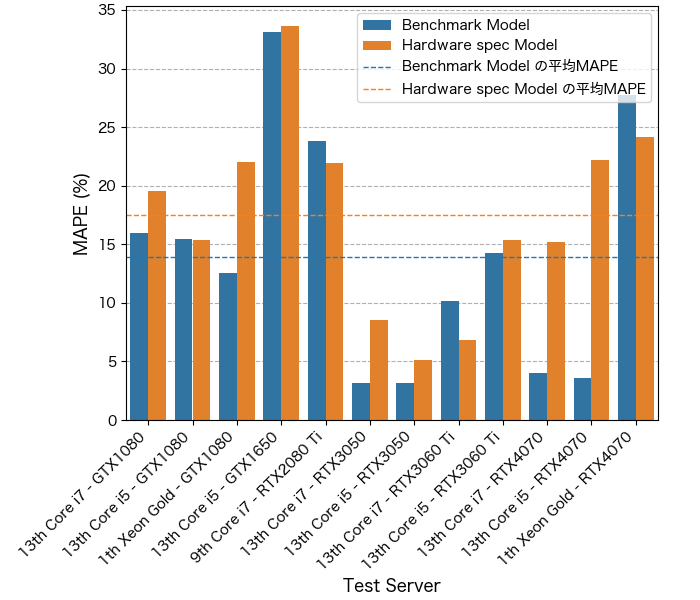
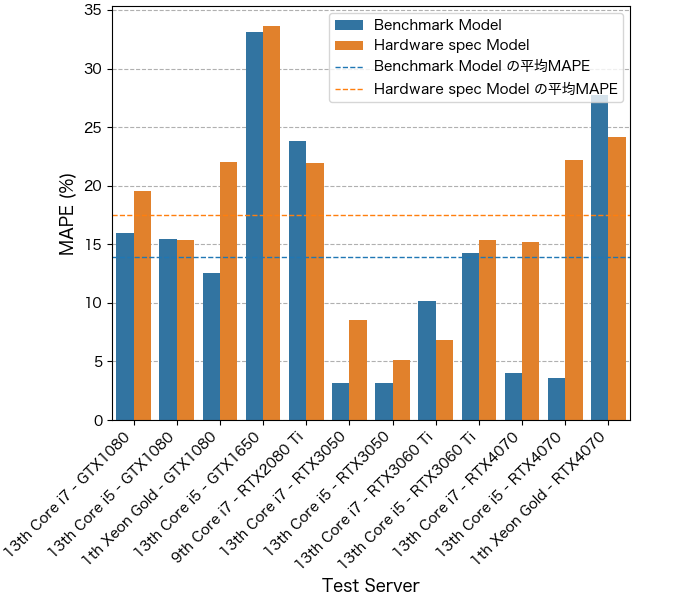
IN研究会　グラフ　修正

diff --git a/IN_visualize_source/plot_high_precision_models copy.py b/IN_visualize_source/plot_high_precision_models copy.py
@@ -1,0 +1,127 @@
+import os
+import sys
+
+import matplotlib.pyplot as plt
+import pandas as pd
+from config import PLT_FONT, SERVER_ORDER
+
+plt.rcParams['font.family'] = PLT_FONT
+
+
+def main():
+    data_dir = '../mlresults_analyze'
+    output_dir = '../IN_graph'  # 保存先のディレクトリ
+    os.makedirs(output_dir, exist_ok=True)  # 保存先フォルダを作成
+
+    data_file = 'benchmark_parameter_stats_results_with_metadata.csv'
+
+    # データの読み込み
+    df = load_data(data_dir, data_file)
+
+    # Variable Parameter をリスト形式に変換し、LaTeX スタイルにフォーマット
+    df['Variable Parameter'] = df['Variable Parameter'].apply(eval)
+    df['Variable Parameter'] = df['Variable Parameter'].apply(
+        lambda params: [to_latex_subscript(param) for param in params])
+
+    # 高精度モデルの条件（例: MAPE < 15%）
+    high_precision_models = df[df['average MAPE test (%)'] < 15]
+
+    # 特徴量の出現頻度をプロット
+    plot_feature_importance(high_precision_models, output_dir)
+
+    # MAPE vs Time Cost の散布図をプロット
+    # plot_mape_vs_time_cost(df, high_precision_models, output_dir)
+
+
+def to_latex_subscript(parameter):
+    """
+    LaTeX形式で変数を下付き文字として変換する
+    """
+    return f"T$_{{\\text{{{parameter[2:]}}}}}$"  # 'T_'の後ろを下付き文字として変換
+
+
+def load_data(data_dir, data_file):
+    """
+    データを読み込み、欠損値をチェックする関数。
+
+    Args:
+        data_dir (str): データディレクトリのパス
+        data_file (str): データファイル名
+
+    Returns:
+        pd.DataFrame: 読み込んだデータフレーム
+    """
+    try:
+        data_path = os.path.join(data_dir, data_file)
+        df = pd.read_csv(data_path)
+        if df.isna().any().any():
+            raise ValueError("データに欠損値（NaN）が含まれています。")
+        return df
+    except FileNotFoundError:
+        print(f"ファイル {data_file} が見つかりませんでした。")
+        sys.exit(1)
+    except ValueError as e:
+        print(e)
+        sys.exit(1)
+
+
+def plot_feature_importance(high_precision_models, output_dir):
+    """
+    高精度モデルにおける特徴量の重要度を棒グラフでプロットする。
+
+    Args:
+        high_precision_models (pd.DataFrame): 高精度モデルのデータ
+        output_dir (str): グラフ保存先のディレクトリ
+    """
+    feature_counts = pd.Series([
+        feature for features in high_precision_models['Variable Parameter'] for feature in features
+    ]).value_counts()
+
+    plt.figure(figsize=(6, 5))
+    ax = plt.gca()
+    ax.grid(axis='y', linestyle='--', zorder=1)  # グリッドを zorder=1 に設定
+    ax.bar(feature_counts.index, feature_counts.values, zorder=2)  # 棒グラフ
+    #plt.title('Feature Importance in High-Precision Models', fontsize=14)
+    plt.xlabel('Benchmark', fontsize=12)
+    plt.ylabel('The Number of Benchmark in High-Precision Models', fontsize=12)
+    plt.xticks(rotation=0, ha='center', fontsize=10)
+    plt.tight_layout()
+    save_path = os.path.join(output_dir, 'high_precision_benchmark_models.png')
+    plt.savefig(save_path)  # PNG形式で保存
+    plt.close()  # グラフを閉じる
+
+
+# def plot_mape_vs_time_cost(df, high_precision_models, output_dir):
+#     """
+#     MAPE vs Time Cost の散布図をプロットする。
+
+#     Args:
+#         df (pd.DataFrame): 全データフレーム
+#         high_precision_models (pd.DataFrame): 高精度モデルのデータ
+#         output_dir (str): グラフ保存先のディレクトリ
+#     """
+#     plt.figure(figsize=(10, 6))
+#     ax = plt.gca()
+#     ax.grid(True, zorder=1)  # グリッドを zorder=1 に設定
+#     plt.scatter(df['Time Cost (s)'],
+#                 df['average MAPE test (%)'],
+#                 color='lightgray',
+#                 alpha=0.5,
+#                 label='All Models',
+#                 zorder=2)  # 散布図を zorder=2 に設定
+#     plt.scatter(high_precision_models['Time Cost (s)'],
+#                 high_precision_models['average MAPE test (%)'],
+#                 color='red',
+#                 label='High-Precision Models',
+#                 zorder=3)  # 高精度モデルを zorder=3 に設定
+
+#     plt.title('MAPE vs Time Cost', fontsize=14)
+#     plt.xlabel('Time Cost (s)', fontsize=12)
+#     plt.ylabel('average MAPE test (%)', fontsize=12)
+#     plt.legend()
+#     save_path = os.path.join(output_dir, 'mape_vs_time_cost_high_precision_model.png')
+#     plt.savefig(save_path, bbox_inches='tight')  # PNG形式で保存
+#     plt.close()  # グラフを閉じる
+
+if __name__ == "__main__":
+    main()

diff --git a/IN_visualize_source/mape_barplot_spec_benchmark.py b/IN_visualize_source/mape_barplot_spec_benchmark.py
@@ -4,7 +4,7 @@ import sys
 import matplotlib.pyplot as plt
 import pandas as pd
 import seaborn as sns
-from config import SERVER_ORDER, PLT_FONT
+from config import PLT_FONT, SERVER_ORDER
 
 plt.rcParams['font.family'] = PLT_FONT
 
@@ -90,7 +90,7 @@ def main():
     plt.ylabel('MAPE (%)', fontsize=12)
     plt.xticks(rotation=45, ha='right', fontsize=10)
     plt.tight_layout()
-    plt.subplots_adjust(left=0.18, right=0.94, bottom=0.3, top=0.99)  # 余白調整
+    plt.subplots_adjust(left=0.16, right=0.90, bottom=0.3, top=0.99)  # 余白調整
 
     # 出力ディレクトリの設定
     output_dir = '../IN_graph'
